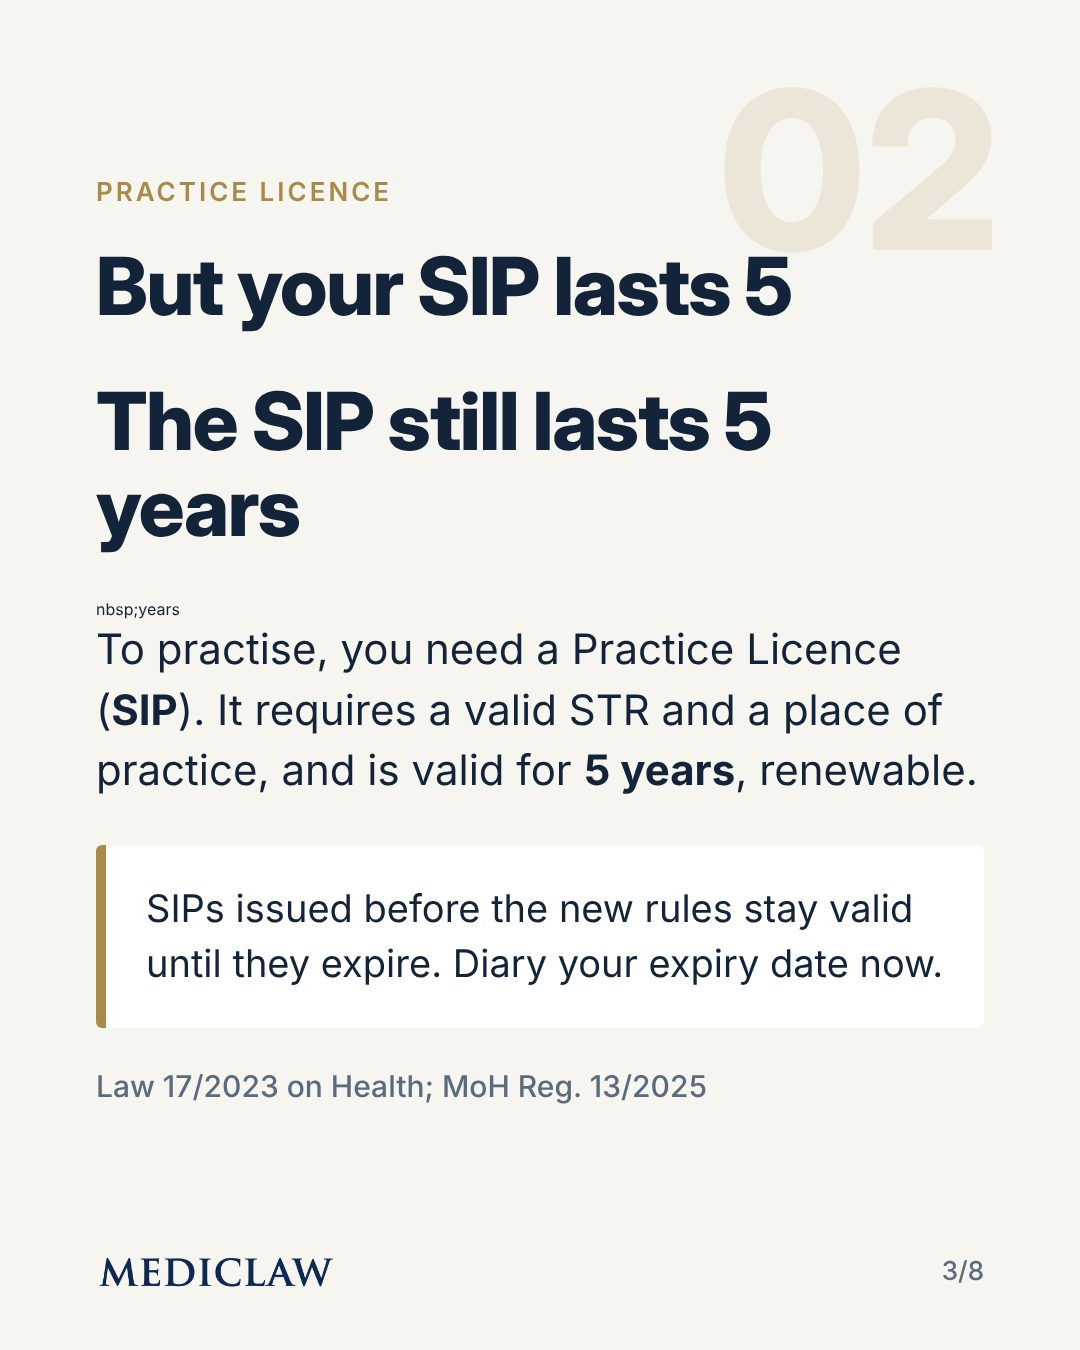
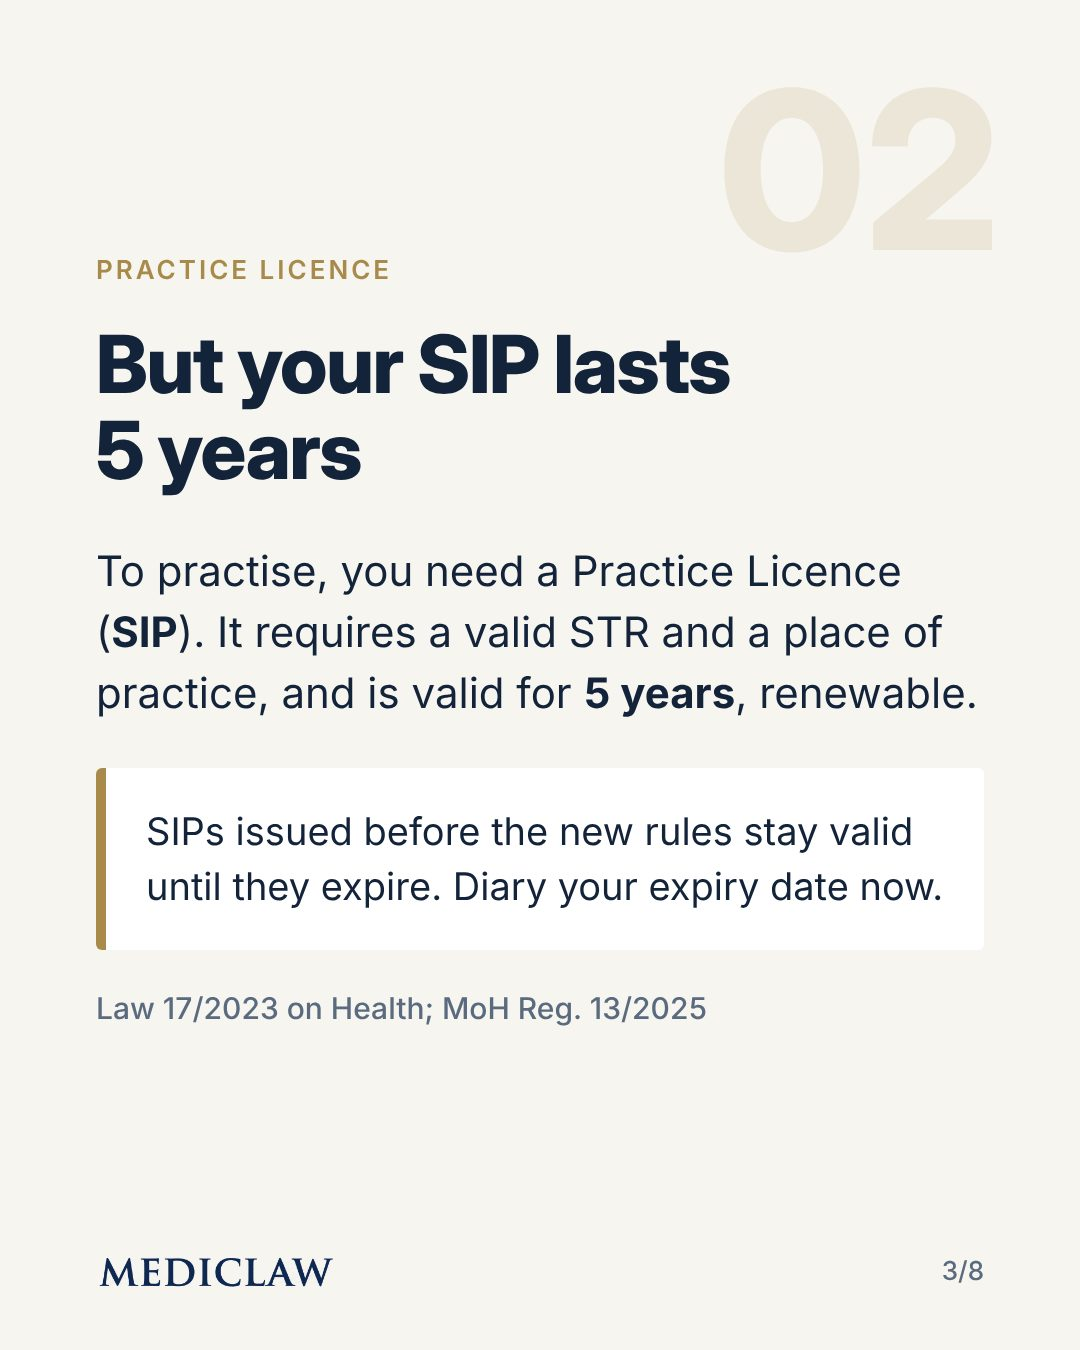
Add carousel 07 clinic accreditation slides and caption; fix broken heading on carousel 06 slide 3
Claude-Session: https://claude.ai/code/session_01RnB2N3C2xFeB3uxSVMeEpc

Changed region(s): [[0.0917, 0.1867, 0.8861, 0.8089], [0.0917, 0.1244, 0.3667, 0.1556]]

diff --git a/toolkit/slides-07.html b/toolkit/slides-07.html
@@ -1,0 +1,125 @@
+<!DOCTYPE html>
+<html><head><meta charset="utf-8">
+<style>
+:root{--navy:#0F2852;--teal:#A88B4A;--mint:#ECE6D8;--ink:#13233A;--muted:#5B6B7F;--gold:#C2A878;--paper:#F7F5F0}
+*{box-sizing:border-box;margin:0;padding:0}
+body{font-family:"Inter",sans-serif;background:#ccc}
+.s{width:1080px;height:1350px;position:relative;overflow:hidden;background:var(--paper);color:var(--ink);padding:120px 96px 190px;display:flex;flex-direction:column;justify-content:center}
+.s>*{position:relative;z-index:1}.s>.num,.s>.deco,.s>.brand,.s>.pg,.s>.swipe{position:absolute}
+.dark{background:var(--navy);color:#fff}
+.brand{position:absolute;left:96px;bottom:60px;line-height:0;font-weight:700;font-size:28px;letter-spacing:.5px}
+.brand span{color:var(--teal)}
+
+.pg{position:absolute;right:96px;bottom:64px;font-size:26px;color:var(--muted);font-weight:500}
+.dark .pg{color:#9FB3C8}
+.tag{display:inline-block;font-size:26px;font-weight:600;letter-spacing:3px;text-transform:uppercase;color:var(--teal);margin-bottom:36px}
+.dark .tag{color:#D4BA82}
+.num{font-family:"Inter Display","Inter";font-weight:800;font-size:220px;line-height:1;color:var(--mint);right:80px;top:60px;z-index:0}
+h1{font-family:"Inter Display","Inter";font-weight:800;font-size:116px;line-height:1.04;letter-spacing:-2px}
+h2{font-family:"Inter Display","Inter";font-weight:800;font-size:80px;line-height:1.08;letter-spacing:-1.5px;margin-bottom:48px;max-width:860px}
+p{font-size:42px;line-height:1.45;color:var(--ink)}
+.dark p{color:#DCE6F0}
+.rule{width:120px;height:8px;background:var(--gold);margin:48px 0}
+.box{background:#fff;border-left:10px solid var(--teal);padding:36px 40px;margin-top:44px;border-radius:6px}
+.box p{font-size:38px}
+.law{font-size:30px;color:var(--muted);margin-top:40px;font-weight:500}
+ul{list-style:none;margin-top:12px}
+li{font-size:40px;line-height:1.35;padding:22px 0 18px 56px;position:relative;border-bottom:2px solid #E4E1D8}
+li:before{content:"";position:absolute;left:0;top:38px;width:24px;height:24px;border-radius:50%;background:var(--teal)}
+.swipe{position:absolute;right:96px;bottom:150px;font-size:30px;font-weight:600;color:#D4BA82}
+.cover-sub{font-size:44px;line-height:1.4;color:#DCE6F0;max-width:820px}
+.disc{font-size:28px;color:#9FB3C8;margin-top:60px;line-height:1.5}
+.cta{display:inline-block;background:var(--gold);color:var(--navy);font-weight:700;font-size:36px;padding:26px 44px;border-radius:60px;margin-top:20px}
+.deco{position:absolute;right:-180px;top:-180px;width:620px;height:620px;border-radius:50%;border:70px solid rgba(194,168,120,.10)}
+.brand img{height:36px}.toplogo{width:400px;margin-bottom:70px}.biglogo{width:620px;margin-bottom:70px}</style></head><body>
+
+<!-- 1 COVER -->
+<section class="s dark" id="s1">
+  <div class="deco"></div>
+  <img class="toplogo" src="logo_full_white.png">
+  <h1>Is your clinic&rsquo;s accreditation still valid?</h1>
+  <div class="rule"></div>
+  <p class="cover-sub">6 accreditation rules every clinic, lab and private practice should know under MoH Reg. 34/2022.</p>
+  <div class="swipe">Swipe →</div>
+  <div class="brand"><img src="logo_word_white.png"></div><div class="pg">1/8</div>
+</section>
+
+<!-- 2 -->
+<section class="s" id="s2">
+  <div class="num">01</div>
+  <div class="tag">Who must comply</div>
+  <h2>Accreditation is mandatory</h2>
+  <p>Every <b>clinic</b>, health laboratory, blood transfusion unit, Puskesmas and independent doctor&rsquo;s or dentist&rsquo;s practice <b>must</b> be accredited.</p>
+  <div class="box"><p>No BPJS contract? Still mandatory. Hospitals are accredited under their own separate standards.</p></div>
+  <div class="law">MoH Reg. 34/2022, Art. 3(1); Law 17/2023 on Health</div>
+  <div class="brand"><img src="logo_word_navy.png"></div><div class="pg">2/8</div>
+</section>
+
+<!-- 3 -->
+<section class="s" id="s3">
+  <div class="num">02</div>
+  <div class="tag">New facilities</div>
+  <h2>The 2-year deadline</h2>
+  <p>Your first accreditation is due <b>no later than 2 years</b> after you start operating under your first business licence.</p>
+  <div class="box"><p>Start preparing in year one: quality indicators, SOPs and patient safety incident reporting all form part of the preparation.</p></div>
+  <div class="law">MoH Reg. 34/2022, Art. 3(2) &amp; Art. 14(2)</div>
+  <div class="brand"><img src="logo_word_navy.png"></div><div class="pg">3/8</div>
+</section>
+
+<!-- 4 -->
+<section class="s" id="s4">
+  <div class="num">03</div>
+  <div class="tag">Validity</div>
+  <h2>Valid for 5 years, then again</h2>
+  <p>The electronic accreditation certificate is valid for <b>5 years</b>. After that, the facility must be re-accredited, periodically, every 5 years.</p>
+  <div class="box"><p>Put the expiry date of your certificate in the management calendar, not just in a file.</p></div>
+  <div class="law">MoH Reg. 34/2022, Art. 4 &amp; Art. 20(3)</div>
+  <div class="brand"><img src="logo_word_navy.png"></div><div class="pg">4/8</div>
+</section>
+
+<!-- 5 -->
+<section class="s" id="s5">
+  <div class="num">04</div>
+  <div class="tag">Re-accreditation</div>
+  <h2>Apply 3 months before expiry</h2>
+  <p>Re-accreditation must happen <b>before</b> the status expires. The application is due <b>at the latest 3 months</b> before the expiry date.</p>
+  <div class="box"><p>Survey teams and slots take time to book. Plan to start 6 to 12 months ahead.</p></div>
+  <div class="law">MoH Reg. 34/2022, Art. 25(1)&ndash;(2)</div>
+  <div class="brand"><img src="logo_word_navy.png"></div><div class="pg">5/8</div>
+</section>
+
+<!-- 6 -->
+<section class="s" id="s6">
+  <div class="num">05</div>
+  <div class="tag">Not accredited?</div>
+  <h2>There is a remedial survey</h2>
+  <p>If the survey result is &ldquo;not accredited&rdquo;, a <b>remedial survey</b> may be carried out within <b>3 to 6 months</b> of that decision.</p>
+  <div class="box"><p>Treat the survey findings as your action plan. Fix them early, not in the last month.</p></div>
+  <div class="law">MoH Reg. 34/2022, Art. 21</div>
+  <div class="brand"><img src="logo_word_navy.png"></div><div class="pg">6/8</div>
+</section>
+
+<!-- 7 -->
+<section class="s" id="s7">
+  <div class="num">06</div>
+  <div class="tag">Keeping your status</div>
+  <h2>Status can be revised or revoked</h2>
+  <p>The status can be adjusted or revoked if services fall short of the <b>national quality indicators</b>, if acts endanger <b>patient safety</b>, or if validation shows a mismatch.</p>
+  <div class="box"><p>Never display a status you do not hold: deliberately showing a false accreditation status is sanctionable.</p></div>
+  <div class="law">MoH Reg. 34/2022, Art. 31(1) &amp; Art. 33</div>
+  <div class="brand"><img src="logo_word_navy.png"></div><div class="pg">7/8</div>
+</section>
+
+<!-- 8 CTA -->
+<section class="s dark" id="s8">
+  <div class="deco"></div>
+  <img class="biglogo" src="logo_full_white.png">
+  <div class="tag">Before your certificate expires</div>
+  <h2 style="font-size:84px">Accredited once is not accredited forever.</h2>
+  <p>Save this post and share it with your clinic manager or quality team.</p>
+  <div style="margin-top:56px"><span class="cta">Follow @mediclaw.id</span></div>
+  <p class="disc">This post is general legal information and does not constitute legal advice. Seek advice on your specific situation.</p>
+  <div class="brand"><img src="logo_word_white.png"></div><div class="pg">8/8</div>
+</section>
+
+</body></html>

diff --git a/toolkit/slides-06.html b/toolkit/slides-06.html
@@ -59,7 +59,7 @@ li:before{content:"";position:absolute;left:0;top:38px;width:24px;height:24px;bo
 <section class="s" id="s3">
   <div class="num">02</div>
   <div class="tag">Practice licence</div>
-  <h2>But your SIP lasts 5<h2>The SIP still lasts 5 years</h2>nbsp;years</h2>
+  <h2>But your SIP lasts 5&nbsp;years</h2>
   <p>To practise, you need a Practice Licence (<b>SIP</b>). It requires a valid STR and a place of practice, and is valid for <b>5 years</b>, renewable.</p>
   <div class="box"><p>SIPs issued before the new rules stay valid until they expire. Diary your expiry date now.</p></div>
   <div class="law">Law 17/2023 on Health; MoH Reg. 13/2025</div>
